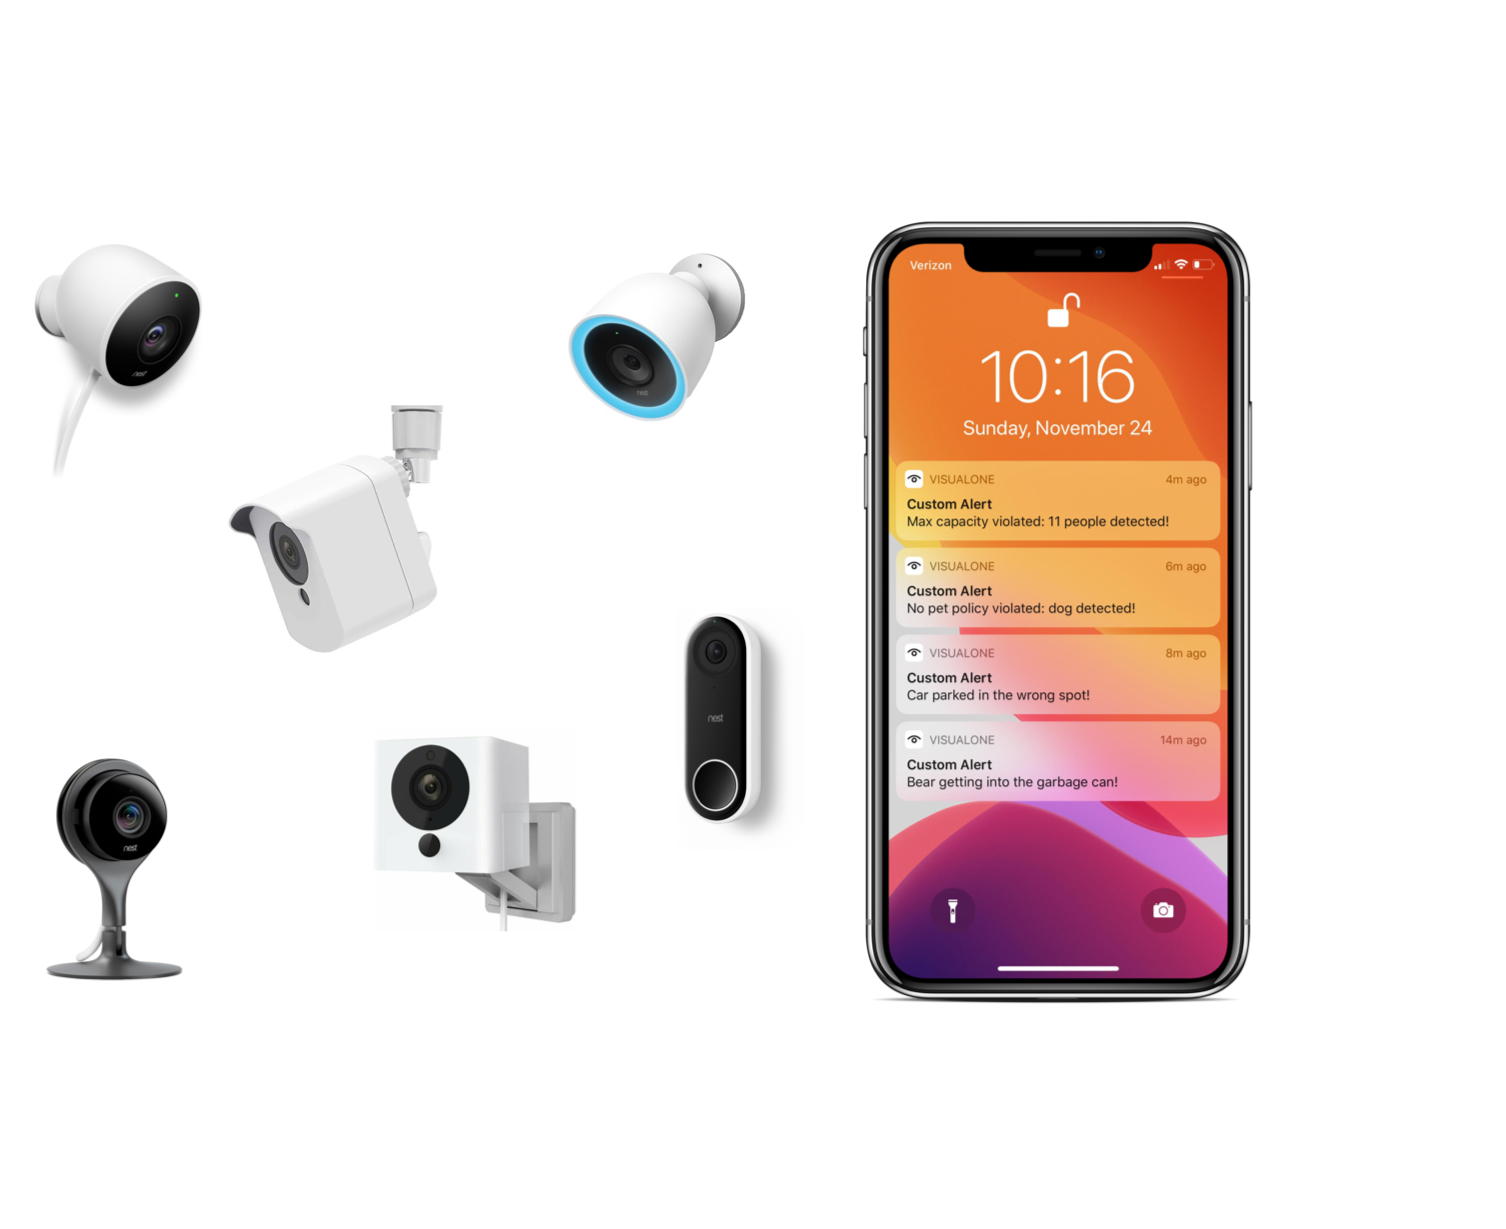
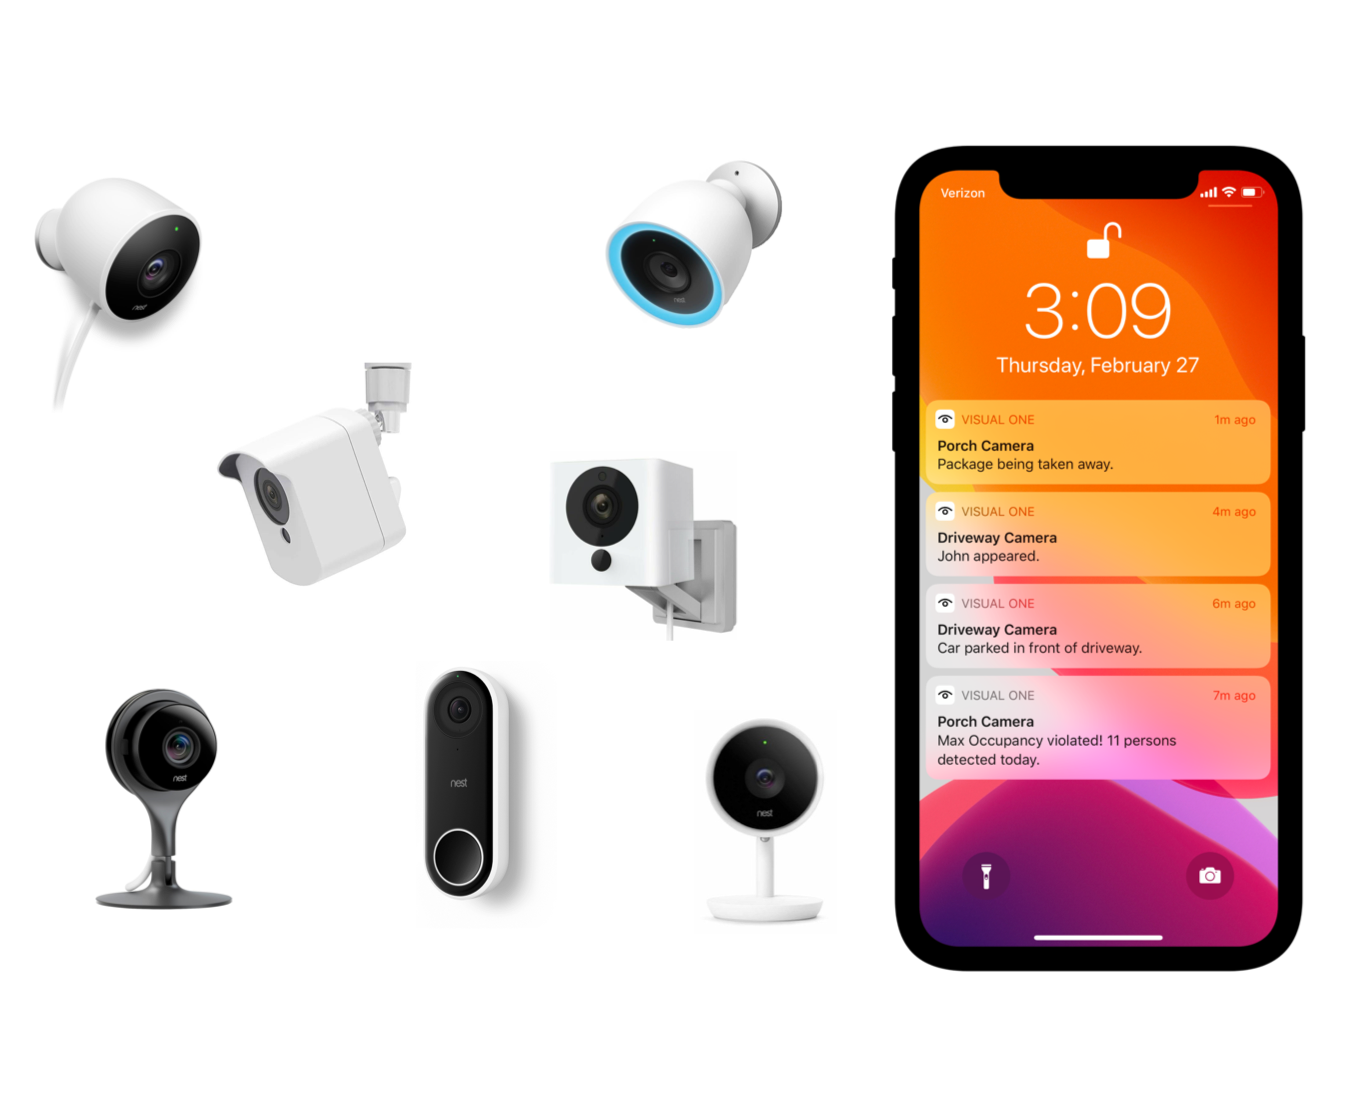
made the front page better.

diff --git a/index.html b/index.html
@@ -92,23 +92,30 @@
 
     <div class="site-blocks-cover">
       <div class="container">
-        <div class="row align-items-center justify-content-center">
+        <div class="row align-items-center justify-content-center" data-aos="fade-up">
 
-          <div class="col-md-12" style="position: relative;" data-aos="fade-up">
+          <!-- <div class="" style="position: relative;" data-aos="fade-up"> -->
             
-            <img src="images/main-image.png" alt="Image" class="img-fluid img-absolute" style="max-width: 85%;">
+            <!-- <img src="images/main-image.png" alt="Image" class="img-fluid img-absolute" style="max-width: 100%;"> -->
 
-            <div class="row mb-4">
-              <div class="col-lg-5 col-sm-5 mr-auto">
-                <h1>Moving Beyond Motion</h1></br>
-                <p class="mb-5">Enabling your surveillance cameras to recognize what you want them to!<br>Create custom alerts for what matters to you, get notified when they happen.</p>
+		  <div class="col-lg-8 order-1 order-lg-2">
+            <img src="images/main-image.png" alt="Image" class="img-fluid" style="max-width: 100%;">
+          </div>
+          <div class="col-lg-4 ml-auto order-2 order-lg-1">
+
+
+
+            <!-- <div class="row ">
+              <div class="col-lg-5 col-sm-5 "> -->
+                <h1>Your<br/>24/7<br/>Watchman</h1></br>
+                <p class="mb-5">Enabling your surveillance cameras to recognize what's important!<br>Create custom alerts for what matters to you, get notified when they happen.</p>
                 <div>
                   <a href="#features-section" class="btn btn-primary mr-2 mb-2">Learn More</a>
                 </div>
                 <br/>
 
-              </div>
-            </div>
+              <!-- </div> -->
+            <!-- </div> -->
 
           </div>
         </div>
@@ -129,10 +136,10 @@
           <div class="col-md-6 col-lg-4 mb-4 mb-lg-4" data-aos="fade-up">
             <div class="unit-4 d-block">
               <div class="unit-4-icon mb-3">
-                <span class="icon-wrap"><span class="text-primary icon-child_care"></span></span>
+                <span class="icon-wrap"><span class="text-primary icon-child_care"></span></span><h3>Child Care</h3>
               </div>
               <div>
-                <h3>Child Care</h3>
+                <!-- <h3>Child Care</h3> -->
                 <p>Kid playing with the stove.</p>
                 <p>Kid holding a knife.</p>
                 <p>Toddler climbing furniture.</p>
@@ -145,10 +152,10 @@
           <div class="col-md-6 col-lg-4 mb-4 mb-lg-4" data-aos="fade-up">
             <div class="unit-4 d-block">
               <div class="unit-4-icon mb-3">
-                <span class="icon-wrap"><span class="text-primary icon-pets"></span></span>
+                <span class="icon-wrap"><span class="text-primary icon-pets"></span></span><h3>Pet Care</h3>
               </div>
               <div>
-                <h3>Pet Care</h3>
+                
                 <p>Dog chewing a shoe.</p>
                 <p>Dog getting on the couch.</p>
                 <p>Cat scratching the furniture.*</p>
@@ -161,11 +168,11 @@
           <div class="col-md-6 col-lg-4 mb-4 mb-lg-4" data-aos="fade-up">
             <div class="unit-4 d-block">
               <div class="unit-4-icon mb-3">
-                <span class="icon-wrap"><span class="text-primary icon-home"></span></span>
+                <span class="icon-wrap"><span class="text-primary icon-home"></span></span><h3>Home Security</h3>
               </div>
               <div>
-                <h3>Home Security</h3>
-                <p>Package was taken away.*</p>
+                
+                <p>Package being taken away.*</p>
                 <p>Car parked in front of the driveway.</p>
                 <p>New face detected.</p>
                 <p>Person disposing of garbage.</p>
@@ -177,10 +184,10 @@
           <div class="col-md-6 col-lg-4 mb-4 mb-lg-4" data-aos="fade-up">
             <div class="unit-4 d-block">
               <div class="unit-4-icon mb-3">
-                <span class="icon-wrap"><span class="text-primary icon-people"></span></span>
+                <span class="icon-wrap"><span class="text-primary icon-people"></span></span><h3>Vacation Rentals</h3>
               </div>
               <div>
-                <h3>Vacation Rentals</h3>
+                
                 <p>Max occupancy violated.</p>
                 <p>Dog detected.</p>
                 <p>Car parked in the wrong spot.</p>
@@ -193,10 +200,10 @@
           <div class="col-md-6 col-lg-4 mb-4 mb-lg-4" data-aos="fade-up">
             <div class="unit-4 d-block">
               <div class="unit-4-icon mb-3">
-                <span class="icon-wrap"><span class="text-primary icon-directions_walk"></span></span>
+                <span class="icon-wrap"><span class="text-primary icon-directions_walk"></span></span><h3>Elderly Care</h3>
               </div>
               <div>
-                <h3>Elderly Care</h3>
+                
                 <p>Elderly taking her medications.</p>
                 <p>Elderly had a fall.*</p>
                 <p>Elderly in the bed for too long.</p>
@@ -209,10 +216,10 @@
         <div class="col-md-6 col-lg-4 mb-4 mb-lg-4" data-aos="fade-up">
             <div class="unit-4 d-block">
               <div class="unit-4-icon mb-3">
-                <span class="icon-wrap"><span class="text-primary icon-pets"></span></span>
+                <span class="icon-wrap"><span class="text-primary icon-pets"></span></span><h3>Wild Life</h3>
               </div>
               <div>
-                <h3>Wild Life</h3>
+                
                 <p>Bear detected.</p>
                 <p>Bear next to the car.</p>
                 <p>Coyote apeared.</p>
@@ -223,7 +230,9 @@
 
         </div>
 
-        <br>
+        <p>*: in progress.</p>
+
+        
 
       <div class="row justify-content-center" style="padding-top: 20px;">
         <div class="col-lg-6  col-md-6 pr-lg-6" >
@@ -240,6 +249,8 @@
             </ul>
           </div>
         </div>
+
+
 
       </div>
     </div>
@@ -290,7 +301,7 @@
               <li>Indoor camera for <strong>only $29.99!</strong></li><br>
               <li>Outdoor camera for <strong>only $39.99!</strong></li><br>
               <!-- <li>Indoor and outdoor options available.</li><br> -->
-              <li>Comes with a <strong>14 day free trial.</strong></li><br>
+              <li>Come with a <strong>14 day free trial.</strong></li><br>
             </ul>
             </ul>
 
@@ -494,9 +505,9 @@
       </div>
     </div>
 
+</div>
 
-
-    <div class="footer py-5 border-top text-center">
+    <div class="footer py-5 border-top text-center bg-light">
       <div class="container">
         <div class="row mb-5">
           <div class="col-12">
@@ -535,7 +546,7 @@
       </div>
     </div>
     
-  </div>
+  
 
   <script src="https://js.stripe.com/v3/"></script>
 
